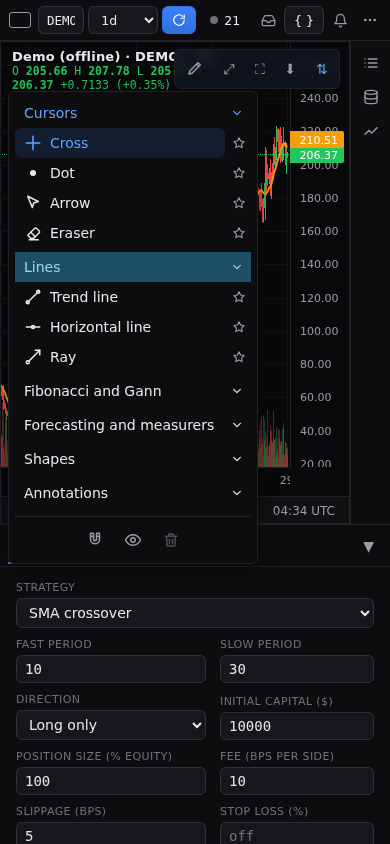
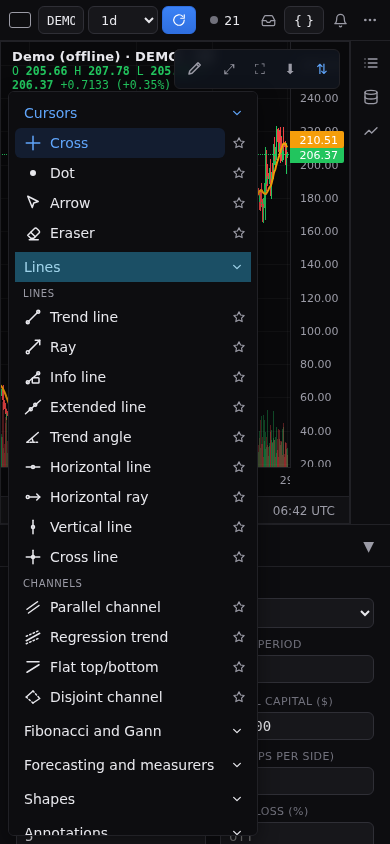
Channel tools: capture scenario, user guide, rail scenario updated for the Channels section

diff --git a/e2e/capture/scenarios/drawing-channels.ts b/e2e/capture/scenarios/drawing-channels.ts
@@ -1,0 +1,241 @@
+import type { Scenario } from '../scenario.ts';
+
+const STORED = `(() => {
+  const raw = localStorage.getItem('vost.drawings.v2');
+  const all = raw ? JSON.parse(raw).sources : {};
+  return all['demo:DEMO'] ?? [];
+})()`;
+
+type Stored = { id: string; tool: string; anchors: { time: number; price: number }[]; style?: Record<string, unknown> };
+type Pt = { x: number; y: number };
+
+/** The four channel tools: label, stored id, where (canvas fractions) each is placed, clear of the others, and how it is drawn with a mouse. */
+const TOOLS = [
+  { label: 'Parallel channel', id: 'parallelChannel', how: 'clicks', at: [{ x: 0.08, y: 0.78 }, { x: 0.3, y: 0.62 }, { x: 0.2, y: 0.9 }] },
+  { label: 'Regression trend', id: 'regressionTrend', how: 'drag', at: [{ x: 0.38, y: 0.7 }, { x: 0.62, y: 0.5 }] },
+  { label: 'Flat top/bottom', id: 'flatTopBottom', how: 'drag then click', at: [{ x: 0.68, y: 0.3 }, { x: 0.92, y: 0.18 }, { x: 0.8, y: 0.5 }] },
+  { label: 'Disjoint channel', id: 'disjointChannel', how: 'clicks', at: [{ x: 0.06, y: 0.12 }, { x: 0.3, y: 0.08 }, { x: 0.12, y: 0.35 }] },
+] as const;
+type ToolSpec = (typeof TOOLS)[number];
+
+const GROUP = 'Lines';
+
+export const drawingChannels: Scenario = {
+  name: 'drawing-channels',
+  touch: ['narrow'],
+  keepPrefs: true,
+  description:
+    'The channel tools (parallel channel, regression trend, flat top/bottom, disjoint channel): draw each (three clicks, press-drag then click, or taps) with a live preview and Escape to cancel, select with axis labels, move, resize by a handle, restyle in the settings dialog (the regression source and deviation), undo and redo, reload and a timeframe change',
+  viewports: ['desktop', 'narrow'],
+  async run(ctx) {
+    const { page } = ctx;
+    const checks: string[] = [];
+    const check = (label: string, ok: boolean, detail = '') => {
+      checks.push(`${ok ? 'ok  ' : 'FAIL'} ${label}${detail ? ` - ${detail}` : ''}`);
+      if (!ok) throw new Error(`check failed: ${label} ${detail}`);
+    };
+    const stored = async () => {
+      await page.waitForTimeout(700);
+      return (await page.evaluate(STORED)) as Stored[];
+    };
+    const one = async (id: string) => (await stored()).find((d) => d.tool === id)!;
+    const box = async () => {
+      const b = await page.locator('.chart-container').boundingBox();
+      if (!b) throw new Error('chart container has no box');
+      return b;
+    };
+    const at = async (f: { x: number; y: number }): Promise<Pt> => {
+      const b = await box();
+      /** The canvas holds the price axis on its right, so x is scaled to stay in the plot on a narrow screen. */
+      return { x: b.x + b.width * f.x * 0.7, y: b.y + b.height * f.y };
+    };
+    const narrow = ctx.viewport === 'narrow';
+    const rail = page.getByRole('toolbar', { name: 'Drawing tools' });
+    const menuBtn = page.getByRole('button', { name: 'Drawing tools', exact: true });
+    const menu = page.getByRole('group', { name: 'Drawing tools menu' });
+
+    const pickTool = async (label: string) => {
+      if (narrow) {
+        await menuBtn.tap();
+        const btn = menu.getByRole('button', { name: label, exact: true });
+        if (!(await btn.isVisible())) await menu.getByRole('button', { name: GROUP, exact: true }).tap();
+        await btn.tap();
+        return;
+      }
+      await rail.getByRole('button', { name: `Open ${GROUP} tools`, exact: true }).click();
+      await page.getByRole('menuitemradio', { name: label, exact: true }).click();
+    };
+    const draw = async (t: ToolSpec) => {
+      await pickTool(t.label);
+      const pts = await Promise.all(t.at.map(at));
+      if (narrow) {
+        for (const p of pts) {
+          await page.touchscreen.tap(p.x, p.y);
+          await page.waitForTimeout(150);
+        }
+      } else if (t.how === 'clicks') {
+        for (const p of pts) {
+          await page.mouse.move(p.x, p.y, { steps: 6 });
+          await page.mouse.click(p.x, p.y);
+        }
+      } else {
+        await page.mouse.move(pts[0].x, pts[0].y);
+        await page.mouse.down();
+        await page.mouse.move(pts[1].x, pts[1].y, { steps: 12 });
+        await page.mouse.up();
+        if (pts[2]) {
+          await page.mouse.move(pts[2].x, pts[2].y, { steps: 8 });
+          if (t.id === 'flatTopBottom') await ctx.screenshot('placing-flatTopBottom');
+          await page.mouse.click(pts[2].x, pts[2].y);
+        }
+      }
+    };
+    /** Pixel rows (client y) of the blue lines painted in a column of the chart: the regression's upper, base and lower line. */
+    const lineRows = async (x: number): Promise<number[]> =>
+      page.evaluate((cx) => {
+        const rows: number[] = [];
+        for (const c of Array.from(document.querySelectorAll('.chart-container canvas'))) {
+          const r = c.getBoundingClientRect();
+          const g = c.getContext('2d');
+          if (!g) continue;
+          const px = Math.round(((cx - r.left) * c.width) / r.width);
+          if (px < 0 || px >= c.width) continue;
+          const data = g.getImageData(px, 0, 1, c.height).data;
+          let run: number[] = [];
+          const flush = () => {
+            if (run.length) rows.push(r.top + ((run.reduce((a, b) => a + b, 0) / run.length) * r.height) / c.height);
+            run = [];
+          };
+          for (let y = 0; y < c.height; y++) {
+            const [rr, , bb, aa] = [data[y * 4], data[y * 4 + 1], data[y * 4 + 2], data[y * 4 + 3]];
+            if (aa > 200 && bb > 120 && bb - rr > 70) run.push(y);
+            else flush();
+          }
+          flush();
+        }
+        return rows.sort((a, b) => a - b);
+      }, x);
+    /** A pixel on a drawing's body, clear of its handles and of the other tools. */
+    const body = async (t: ToolSpec, shift: Pt, resized = 0): Promise<Pt> => {
+      const pts = (await Promise.all(t.at.map(at))).map((p) => ({ x: p.x + shift.x, y: p.y + shift.y }));
+      if (t.id === 'regressionTrend') {
+        const x = (pts[0].x + pts[1].x) / 2;
+        const rows = await lineRows(x);
+        if (rows.length < 3) throw new Error(`regression lines not found at x ${x}: ${rows.join(',')}`);
+        return { x, y: rows[Math.floor(rows.length / 2)] };
+      }
+      const f = resized ? 0.75 : 0.5;
+      const a = { x: pts[0].x, y: pts[0].y + resized };
+      return { x: a.x + (pts[1].x - a.x) * f, y: a.y + (pts[1].y - a.y) * f };
+    };
+
+    await ctx.step('open app', () => page.goto('/'));
+    await ctx.waitForChart();
+
+    if (!narrow) {
+      await ctx.step('Escape cancels a three-point drawing in flight', async () => {
+        await pickTool('Parallel channel');
+        const [a, b, c] = await Promise.all(TOOLS[0].at.map(at));
+        await page.mouse.click(a.x, a.y);
+        await page.mouse.move(b.x, b.y, { steps: 8 });
+        await page.mouse.click(b.x, b.y);
+        await page.mouse.move(c.x, c.y, { steps: 8 });
+        await ctx.screenshot('preview-parallelChannel');
+        await page.keyboard.press('Escape');
+        await page.mouse.click(c.x, c.y);
+        await page.mouse.click(a.x, a.y);
+        check('nothing stored after Escape', (await stored()).length === 0);
+      });
+    }
+
+    for (const [i, t] of TOOLS.entries()) {
+      await ctx.step(`draw a ${t.label}${narrow ? ' by taps' : ` (${t.how})`}`, async () => {
+        await draw(t);
+        const list = await stored();
+        check(`${t.label} stored`, list.length === i + 1 && list[i].tool === t.id && list[i].anchors.length === t.at.length, list.map((d) => `${d.tool}:${d.anchors.length}`).join(','));
+        await ctx.screenshot(`drawn-${t.id}`);
+      });
+    }
+
+    await ctx.step('all four stay in the pane (the chart still paints)', async () => {
+      const shot = await page.locator('.chart-container').screenshot();
+      check('chart painted', shot.length > 1000);
+      await ctx.screenshot('all');
+    });
+
+    if (!narrow) {
+      const dialog = page.getByRole('dialog');
+      const drag = async (from: Pt, to: Pt) => {
+        await page.mouse.move(from.x, from.y);
+        await page.waitForTimeout(150);
+        await page.mouse.down();
+        await page.mouse.move(to.x, to.y, { steps: 12 });
+        await page.mouse.up();
+      };
+
+      for (const t of TOOLS) {
+        await ctx.step(`${t.label}: select, move, resize, restyle in settings, undo and redo`, async () => {
+          await page.keyboard.press('Escape');
+          const grab = await body(t, { x: 0, y: 0 });
+          await page.mouse.click(grab.x, grab.y);
+          await page.waitForTimeout(300);
+          await ctx.screenshot(`selected-${t.id}`);
+          const before = await one(t.id);
+          await drag(grab, { x: grab.x - 40, y: grab.y });
+          const moved = await one(t.id);
+          check(`${t.label} moved by its body`, moved.anchors[0].time !== before.anchors[0].time, JSON.stringify([before.anchors, moved.anchors]));
+          const shift = { x: -40, y: 0 };
+          let resized = 0;
+          if (t.id !== 'regressionTrend') {
+            const first = await at(t.at[0]);
+            const h = { x: first.x + shift.x, y: first.y };
+            await drag(h, { x: h.x, y: h.y + 18 });
+            resized = 18;
+            const after = await one(t.id);
+            check(`${t.label} resized by a handle`, after.anchors[0].price !== moved.anchors[0].price && after.anchors[1].time === moved.anchors[1].time && after.anchors[1].price === moved.anchors[1].price, JSON.stringify([moved.anchors, after.anchors]));
+            if (t.id === 'parallelChannel') {
+              check('parallel channel keeps its third point at the same time', after.anchors[2].time === moved.anchors[2].time && after.anchors[2].price !== moved.anchors[2].price);
+              const c = await at(t.at[2]);
+              const edge = { x: c.x + shift.x, y: c.y + 18 };
+              void edge;
+            }
+          }
+          const target = await body(t, shift, resized);
+          await page.mouse.move(target.x, target.y);
+          await page.mouse.dblclick(target.x, target.y);
+          await dialog.waitFor({ state: 'visible' });
+          check(`${t.label} settings are titled for the tool`, (await dialog.getByRole('heading').textContent()) === `${t.label} settings`);
+          await dialog.getByLabel('Line width', { exact: true }).fill('3');
+          if (t.id === 'regressionTrend') {
+            await dialog.getByLabel('Source', { exact: true }).selectOption('hlc3');
+            await dialog.getByLabel('Deviation', { exact: true }).fill('3');
+          }
+          await dialog.getByRole('button', { name: 'OK' }).click();
+          await dialog.waitFor({ state: 'hidden' });
+          const styled = (await one(t.id)).style;
+          check(`${t.label} restyled`, styled?.width === 3 && (t.id !== 'regressionTrend' || (styled?.source === 'hlc3' && styled?.deviation === 3)), JSON.stringify(styled));
+          await ctx.screenshot(`styled-${t.id}`);
+          await page.keyboard.press('Control+z');
+          check(`${t.label} undo reverts the restyle`, (await one(t.id)).style?.width !== 3);
+          await page.keyboard.press('Control+Shift+z');
+          check(`${t.label} redo restores the restyle`, (await one(t.id)).style?.width === 3);
+        });
+      }
+    }
+
+    await ctx.step('reload and a timeframe change keep every channel', async () => {
+      const before = await stored();
+      await page.reload();
+      await ctx.waitForChart();
+      await page.waitForTimeout(500);
+      check('four drawings after reload', (await stored()).length === 4);
+      await ctx.screenshot('reloaded');
+      await page.locator('select[title="Timeframe"]').selectOption('1h');
+      await page.waitForTimeout(1500);
+      check('unchanged by the timeframe change', JSON.stringify(await stored()) === JSON.stringify(before));
+      await ctx.screenshot('timeframe');
+    });
+
+    await ctx.writeText('checks', checks.join('\n') + '\n');
+  },
+};

diff --git a/e2e/capture/scenarios/drawing-rail.ts b/e2e/capture/scenarios/drawing-rail.ts
@@ -2,7 +2,7 @@ import type { Scenario } from '../scenario.ts';
 
 const PREFS = `(() => JSON.parse(localStorage.getItem('vost.prefs.v1') || '{}'))()`;
 const STORED = `(() => {
-  const raw = localStorage.getItem('vost.drawings.v1');
+  const raw = localStorage.getItem('vost.drawings.v2');
   const all = raw ? JSON.parse(raw).sources : {};
   return all['demo:DEMO'] ?? [];
 })()`;
@@ -17,7 +17,7 @@ type Prefs = {
 /** The rail families that have tools, with the tool each button shows at first. */
 const FAMILIES: { id: string; label: string; first: string; sections: string[] }[] = [
   { id: 'cursors', label: 'Cursors', first: 'Cross', sections: ['Cursors'] },
-  { id: 'lines', label: 'Lines', first: 'Trend line', sections: ['Lines'] },
+  { id: 'lines', label: 'Lines', first: 'Trend line', sections: ['Lines', 'Channels'] },
   { id: 'fib-gann', label: 'Fibonacci and Gann', first: 'Fibonacci retracement', sections: ['Fibonacci'] },
   { id: 'forecast-measure', label: 'Forecasting and measurers', first: 'Measure', sections: ['Measurers'] },
   { id: 'shapes', label: 'Shapes', first: 'Rectangle', sections: ['Shapes'] },
@@ -158,11 +158,11 @@ export const drawingRail: Scenario = {
       await page.keyboard.press('ArrowDown');
       check('ArrowDown moves to Ray', (await focused()).includes('Ray'));
       await page.keyboard.press('End');
-      check('End goes to Cross line', (await focused()).includes('Cross line'));
+      check('End goes to Disjoint channel', (await focused()).includes('Disjoint channel'));
       await page.keyboard.press('ArrowDown');
       check('ArrowDown wraps to Trend line', (await focused()).includes('Trend line'));
       await page.keyboard.press('ArrowUp');
-      check('ArrowUp wraps to Cross line', (await focused()).includes('Cross line'));
+      check('ArrowUp wraps to Disjoint channel', (await focused()).includes('Disjoint channel'));
       await page.keyboard.press('Home');
       check('Home goes to Trend line', (await focused()).includes('Trend line'));
       await ctx.screenshot('keyboard');

diff --git a/e2e/capture/scenarios/index.ts b/e2e/capture/scenarios/index.ts
@@ -9,6 +9,7 @@ import { btRange } from './bt-range.ts';
 import { btResults } from './bt-results.ts';
 import { chartRange } from './chart-range.ts';
 import { chartReset } from './chart-reset.ts';
+import { drawingChannels } from './drawing-channels.ts';
 import { drawingLines } from './drawing-lines.ts';
 import { drawingRail } from './drawing-rail.ts';
 import { drawings } from './drawings.ts';
@@ -31,7 +32,7 @@ import { uiAudit } from './ui-audit.ts';
 import { watchlist } from './watchlist.ts';
 
 // Add a scenario: create a file in this folder and list it here.
-const all: Scenario[] = [alerts, btProgress, btRange, btResults, builtTimeframe, chart, chartPan, chartRange, chartReset, compare, connStatus, customTimeframe, drawingLines, drawingRail, drawings, drawingSettings, layouts, monteCarlo, networkAudit, optimizer, outage, paneResize, pineConvert, pineLibraries, pinePane, replay, responsive, uiAudit, watchlist, zoneClock];
+const all: Scenario[] = [alerts, btProgress, btRange, btResults, builtTimeframe, chart, chartPan, chartRange, chartReset, compare, connStatus, customTimeframe, drawingChannels, drawingLines, drawingRail, drawings, drawingSettings, layouts, monteCarlo, networkAudit, optimizer, outage, paneResize, pineConvert, pineLibraries, pinePane, replay, responsive, uiAudit, watchlist, zoneClock];
 
 
 export const scenarios = new Map<string, Scenario>();

diff --git a/docs/guide/drawings.md b/docs/guide/drawings.md
@@ -26,11 +26,23 @@ Click the star beside a tool to favourite it; the list stays open. Favourites sh
 - **Eraser**: a press on a drawing deletes it (one undo step), a press on empty chart does nothing, and the pointer over a drawing shows it will be erased. It is off while drawings are hidden. Escape goes back to the cursor.
 - **Trend line**, **Ray**, **Info line**, **Extended line**, **Trend angle**, **Rectangle** and **Fibonacci retracement**: pick a tool, then click two points on the chart (or press, drag and release). The info line labels its price change, bars, angle and distance, the extended line continues both ways to the edge of the chart, and the trend angle draws an arc with its angle in degrees and a dotted horizontal from the first point.
 - **Horizontal line**, **Horizontal ray**, **Vertical line** and **Cross line**: pick a tool and click once. The horizontal ray runs from the point to the right edge, the vertical line spans the full height and the cross line is a horizontal and a vertical line through the point. A vertical line only moves in time: dragging it keeps its price.
+- **Parallel channel**, **Regression trend**, **Flat top/bottom** and **Disjoint channel** (the Channels section of the Lines list):
+  - Parallel channel takes three points. The first two set a line, the third sets how far the second, parallel line is from it. A dashed middle line and a fill sit between them, and both lines can extend left and right. Dragging an end keeps the lines parallel; the handle in the middle of the second line sets the gap.
+  - Regression trend takes two points. It fits a straight line to the chosen price (close, open, high, low, hl2, hlc3 or ohlc4) of the bars between them, and draws a line above and below it at the chosen number of standard deviations (2 to begin with), with a fill. It follows the bars as they change and can extend left and right. With fewer than two bars between the points it draws nothing.
+  - Flat top/bottom takes three points: a sloped edge from the first two and a flat edge at the third point's price, filled between.
+  - Disjoint channel takes three points: a first edge from the first two, and a second edge that starts at the third and mirrors the first edge's rise, so the two edges are not parallel. They are filled between.
+  - Three-point drawings are placed with three clicks or taps, or press, drag and release for the first two and then a click or tap. Each placed point stays, a preview follows the pointer for the next one, and Escape cancels the drawing.
 - A selected line shows its price on the price axis and its time on the time axis.
 - **Text**: click the chart and type a note in place. Enter saves, Escape cancels. Double-click a note to edit it.
 - **Measure**: drag, or click then click, between two points to see the price change, percent, bars and elapsed time in a shaded box (green up, red down). It is temporary: never saved, not in undo, and it clears on the next press, Escape or a rail pick.
 
 ![The line tools](../evidence/drawing-lines/drawing-lines-all-desktop.png)
+
+![The channel tools](../evidence/drawing-channels/drawing-channels-all-desktop.png)
+
+![A regression trend restyled with the hlc3 source and 3 deviations](../evidence/drawing-channels/drawing-channels-styled-regressionTrend-desktop.png)
+
+![A parallel channel being placed: two points down, the third follows the pointer](../evidence/drawing-channels/drawing-channels-preview-parallelChannel-desktop.png)
 
 ![Fibonacci retracement](../evidence/drawings/drawings-fib-desktop.png)
 
@@ -58,6 +70,8 @@ Double-click a drawing (a note opens its text editor instead) to open its settin
   - Trend line, ray, info line, extended line and trend angle: colour, opacity, width, solid, dashed or dotted, extend left and right, an arrow at either end, and price change, angle, bars and distance (the info line shows them all and the extended line extends both ways to begin with).
   - Horizontal ray, vertical line and cross line: colour, opacity, width and line style.
   - Horizontal line: colour, opacity, width, line style, and the price label on the axis with its colour.
+  - Parallel channel, flat top/bottom and disjoint channel: line colour, width and style, fill colour and opacity (parallel channel also a middle line switch and extend left and right).
+  - Regression trend: line colours (base, upper, lower), width and style, fill, extend left and right, the source (close, open, high, low, hl2, hlc3, ohlc4) and the deviation.
   - Rectangle: border colour, width and style, fill colour and opacity, extend left and right.
   - Fibonacci retracement: edit, add (up to 24), remove, colour and switch off each level, show prices and levels, reverse, extend lines and a background between levels.
   - Text: colour, size, bold, italic, background and border.

diff --git a/docs/e2e-visual-verification.md b/docs/e2e-visual-verification.md
@@ -14,6 +14,7 @@ npm run -s e2e:capture -- chart-reset           # docs/evidence/chart-reset/{fre
 npm run -s e2e:capture -- chart-range          # docs/evidence/chart-range/chart-range-{before,quick,applied,refused,fetched,cleared}-{desktop,narrow}.png
 npm run -s e2e:capture -- drawings           # docs/evidence/drawings/drawings-{rail,magnet,hidden,ray,rectangle,fib,drawn,selected,moved,rectangle-resized,deleted,undone,reloaded,timeframe,panned,text-placed,text-edited,text-reloaded,measure-up,measure-down}-desktop.png + drawings-{narrow,menu,first-tap,touch-drawn,touch-selected,touch-zoomed,touch-text-typing,touch-text,touch-measure}-narrow.png + drawings-checks-{desktop,narrow}.txt
 npm run -s e2e:capture -- drawing-lines # docs/evidence/drawing-lines/drawing-lines-{drawn-<tool>,all,vertical-selected,cross-selected,timeframe}-{desktop,narrow}.png + drawing-lines-checks-{desktop,narrow}.txt (the info line, extended line, trend angle, horizontal ray, vertical line and cross line: draw each by drag or tap, a vertical line dragged keeps its price, undo and redo, a selected cross line with its axis labels, reload and a timeframe change)
+npm run -s e2e:capture -- drawing-channels # docs/evidence/drawing-channels/drawing-channels-{preview-parallelChannel,placing-flatTopBottom,drawn-<tool>,all,selected-<tool>,styled-<tool>,reloaded,timeframe}-{desktop,narrow}.png + drawing-channels-checks-{desktop,narrow}.txt (the parallel channel, regression trend, flat top/bottom and disjoint channel: draw each by clicks, drag then click or taps with a live preview, Escape cancels, move, resize by a handle, restyle (the regression source and deviation), undo and redo, reload and a timeframe change)
 npm run -s e2e:capture -- drawing-settings # docs/evidence/drawing-settings/drawing-settings-{dialog,styled-dialog,styled,undone,reloaded,preview,coordinates,fib-dialog,fib,default-applied,visibility,hidden-days,shown-hours}-desktop.png + drawing-settings-{dialog,visibility}-narrow.png (360 px) + drawing-settings-{checks,payload}-desktop.txt + drawing-settings-checks-narrow.txt (double-click a trend line, set colour, width, dashed and extend right, OK as one undo step, undo, redo, reload, Cancel and Escape restore, the Coordinates tab, a Fibonacci level and background, Save as default, Visibility on days and hours; writes the stored v2 payload)
 npm run -s e2e:capture -- drawing-rail       # docs/evidence/drawing-rail/drawing-rail-{rail,flyout-<family>,keyboard,last-tool,favorites,bar-dragged,cursor-{cross,dot,arrow},eraser-hover,eraser-erased}-desktop.png + drawing-rail-{menu,menu-lines,favorites}-narrow.png + drawing-rail-checks-{desktop,narrow}.txt (family buttons and flyouts, keyboard, long press, last tool and favourites kept across a reload, the draggable favourites bar, cursor kinds, the eraser with undo, the phone menu sections)
 npm run -s e2e:capture -- layouts            # docs/evidence/layouts/layouts-{picker,grid-2x2,active,large-plus-3,dragged,reloaded,sixteen,sync-picker,sync-interval,sync-crosshair,sync-reloaded,menu,rename,switched,open-dialog,unsaved,named-reloaded}-desktop.png + layouts-{picker,switcher,switcher-menu,picker-open,menu}-narrow.png + layouts-checks-{desktop,narrow}.txt (the picker with its 55 arrangements, four markets in a 2x2 grid, the active chart, a dragged divider, the layout after a reload, the Sync in layout switches (interval synced across a 2x2 grid, the synced crosshair, the switches after a reload), the narrow switcher, and the named layouts menu: rename, copy, switching, the open-layout dialog, the unsaved marker with autosave off, the last layout back after a reload)

diff --git a/CLAUDE.md b/CLAUDE.md
@@ -111,7 +111,7 @@ Install first with `npm ci` (the gate commands in `.claude/factory-loop.json` in
 | Build | `npm run build` | step "Build client" |
 
 Non-gate command (UI evidence; never in a gate or CI; see `docs/e2e-visual-verification.md`):
-`npm run -s e2e:capture -- <scenario>` (scenarios: `alerts`, `chart`, `chart-pan`, `chart-reset`, `chart-range`, `drawing-rail`, `drawing-lines`, `drawings`, `drawing-settings`, `layouts`, `conn-status`, `zone-clock`, `bt-range`, `bt-progress`, `bt-results`, `monte-carlo`, `optimizer`, `built-timeframe`, `custom-timeframe`, `pine-pane`, `pine-convert`, `pine-libraries`, `compare`, `replay`, `pane-resize`, `responsive`, `network-audit`, `outage`, `watchlist`, `ui-audit`).
+`npm run -s e2e:capture -- <scenario>` (scenarios: `alerts`, `chart`, `chart-pan`, `chart-reset`, `chart-range`, `drawing-rail`, `drawing-lines`, `drawing-channels`, `drawings`, `drawing-settings`, `layouts`, `conn-status`, `zone-clock`, `bt-range`, `bt-progress`, `bt-results`, `monte-carlo`, `optimizer`, `built-timeframe`, `custom-timeframe`, `pine-pane`, `pine-convert`, `pine-libraries`, `compare`, `replay`, `pane-resize`, `responsive`, `network-audit`, `outage`, `watchlist`, `ui-audit`).
 
 One suite while debugging: `npm test -- client/src/lib/csv.test.ts`. Test output settings
 (dot reporter, silent) live in `vitest.config.ts`.
